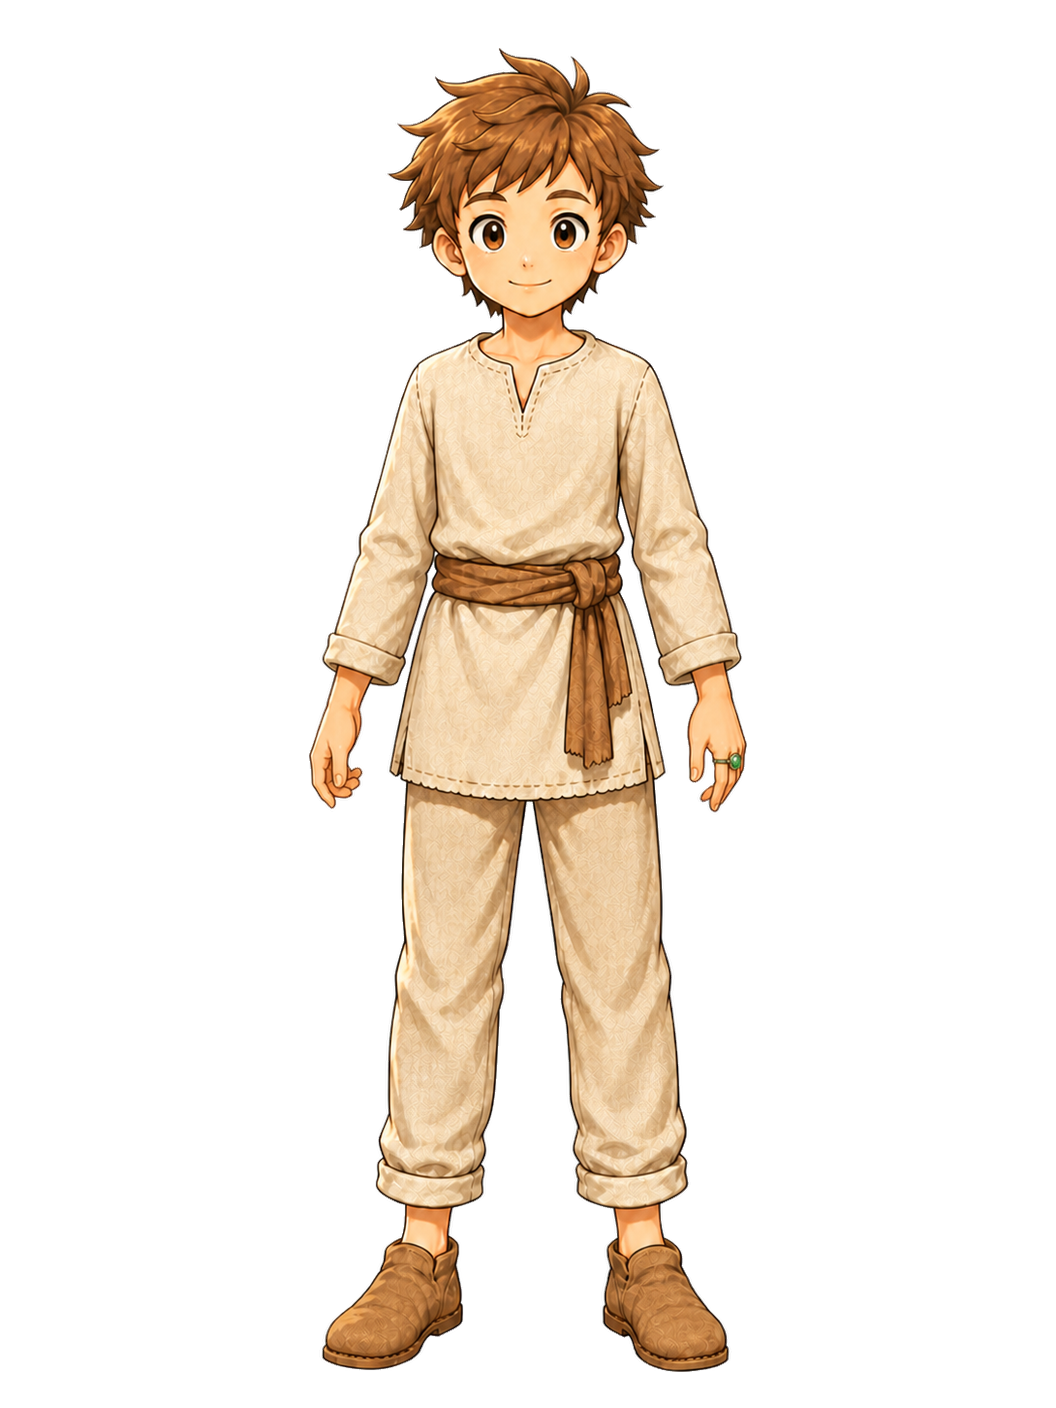
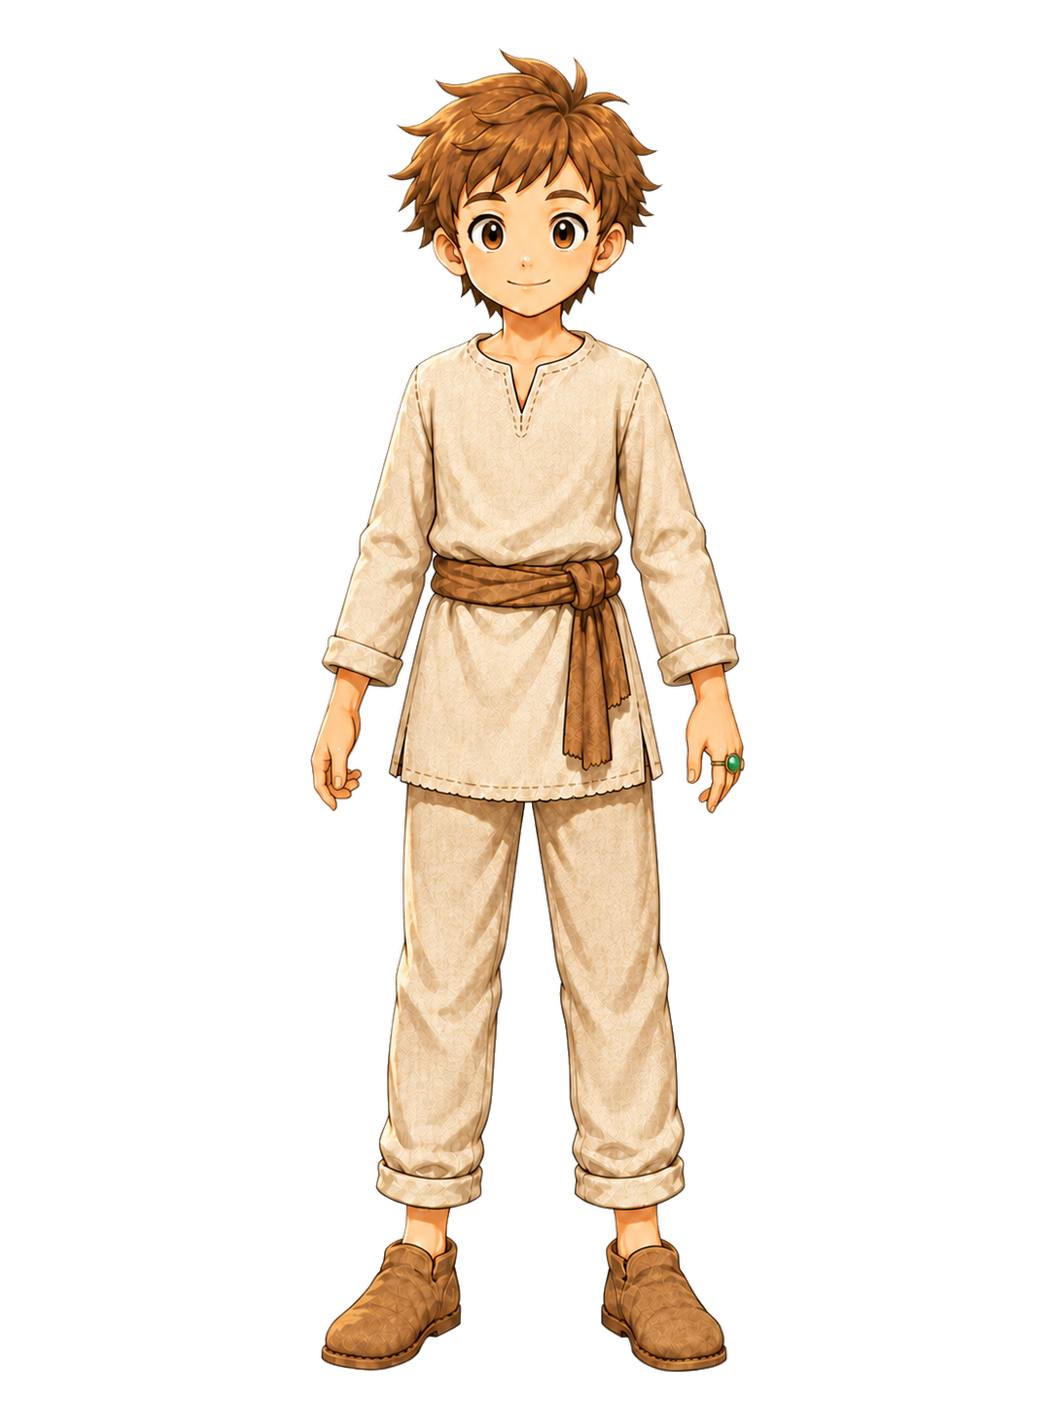
art(rpg): improve jade ring readability

diff --git a/tools/build_acc_jade_ring_visual_readability_fix.py b/tools/build_acc_jade_ring_visual_readability_fix.py
@@ -1,0 +1,191 @@
+"""Build the single authorized acc_jade_ring visual readability revision."""
+
+from __future__ import annotations
+
+from collections import deque
+from hashlib import sha256
+import json
+from pathlib import Path
+
+import numpy as np
+from PIL import Image, ImageDraw, ImageFont
+
+
+ROOT = Path(__file__).resolve().parents[1]
+PACK = ROOT / "docs" / "planning" / "rpg_wave2_master_lane_a_pure_cosmetic_full_body_art_closure_003"
+REVISION = PACK / "revisions" / "acc_jade_ring_visual_readability_fix_004"
+RAW = REVISION / "sources" / "acc_jade_ring_generated.png"
+BEFORE = REVISION / "acc_jade_ring_before.png"
+MASTER = PACK / "masters" / "acc_jade_ring.png"
+WEBP = PACK / "masters" / "acc_jade_ring.webp"
+MANIFEST = PACK / "rpg_wave2_master_lane_a_pure_cosmetic_full_body_art_closure_003_manifest.json"
+
+
+def digest(path: Path) -> str:
+    h = sha256()
+    with path.open("rb") as handle:
+        for chunk in iter(lambda: handle.read(1024 * 1024), b""):
+            h.update(chunk)
+    return h.hexdigest()
+
+
+def fnt(size: int, bold: bool = False):
+    path = Path(r"C:\Windows\Fonts\segoeuib.ttf" if bold else r"C:\Windows\Fonts\segoeui.ttf")
+    return ImageFont.truetype(str(path), size) if path.exists() else ImageFont.load_default()
+
+
+def edge_background_mask(arr: np.ndarray) -> np.ndarray:
+    rgb = arr[:, :, :3].astype(np.int16)
+    alpha = arr[:, :, 3]
+    hi = rgb.max(axis=2)
+    lo = rgb.min(axis=2)
+    neutral = (hi - lo <= 24) & (lo >= 205)
+    green_key = (rgb[:, :, 1] > 90) & (rgb[:, :, 1] > rgb[:, :, 0] * 1.18) & (rgb[:, :, 1] > rgb[:, :, 2] * 1.18)
+    dark = hi <= 28
+    candidates = (alpha > 0) & (neutral | green_key | dark)
+    h, w = candidates.shape
+    removed = np.zeros((h, w), dtype=bool)
+    queue: deque[tuple[int, int]] = deque()
+    for x in range(w):
+        if candidates[0, x]:
+            queue.append((0, x))
+        if candidates[h - 1, x]:
+            queue.append((h - 1, x))
+    for y in range(h):
+        if candidates[y, 0]:
+            queue.append((y, 0))
+        if candidates[y, w - 1]:
+            queue.append((y, w - 1))
+    while queue:
+        y, x = queue.pop()
+        if removed[y, x] or not candidates[y, x]:
+            continue
+        removed[y, x] = True
+        if y:
+            queue.append((y - 1, x))
+        if y + 1 < h:
+            queue.append((y + 1, x))
+        if x:
+            queue.append((y, x - 1))
+        if x + 1 < w:
+            queue.append((y, x + 1))
+    return removed
+
+
+def normalize_candidate() -> Image.Image:
+    source = Image.open(RAW).convert("RGBA")
+    arr = np.array(source, dtype=np.uint8)
+    removed = edge_background_mask(arr)
+    arr[removed, 3] = 0
+    arr[arr[:, :, 3] < 8, :3] = 0
+    alpha = arr[:, :, 3]
+    ys, xs = np.where(alpha > 8)
+    if len(xs) == 0:
+        raise ValueError("Revision source has no foreground alpha")
+    bbox = (int(xs.min()), int(ys.min()), int(xs.max()) + 1, int(ys.max()) + 1)
+    cropped = Image.fromarray(arr, "RGBA").crop(bbox)
+    scale = min(1324 / cropped.height, 800 / cropped.width)
+    size = (max(1, round(cropped.width * scale)), max(1, round(cropped.height * scale)))
+    resized = cropped.resize(size, Image.Resampling.LANCZOS)
+    canvas = Image.new("RGBA", (1056, 1408), (0, 0, 0, 0))
+    canvas.alpha_composite(resized, ((1056 - resized.width) // 2, 1372 - resized.height))
+    final = np.array(canvas, dtype=np.uint8)
+    final[final[:, :, 3] < 8, :3] = 0
+    return Image.fromarray(final, "RGBA")
+
+
+def checkerboard(size: tuple[int, int], cell: int = 14) -> Image.Image:
+    image = Image.new("RGB", size, (244, 247, 250))
+    draw = ImageDraw.Draw(image)
+    for y in range(0, size[1], cell):
+        for x in range(0, size[0], cell):
+            if ((x // cell) + (y // cell)) % 2:
+                draw.rectangle((x, y, x + cell, y + cell), fill=(229, 235, 240))
+    return image
+
+
+def paste_character(canvas: Image.Image, character: Image.Image, area: tuple[int, int, int, int]) -> None:
+    x0, y0, x1, y1 = area
+    layer = checkerboard((x1 - x0, y1 - y0)).convert("RGBA")
+    preview = character.copy()
+    preview.thumbnail((layer.width - 20, layer.height - 10), Image.Resampling.LANCZOS)
+    layer.alpha_composite(preview, ((layer.width - preview.width) // 2, layer.height - preview.height))
+    canvas.paste(layer.convert("RGB"), (x0, y0))
+
+
+def make_review_artifacts(before: Image.Image, after: Image.Image) -> None:
+    desktop = Image.new("RGB", (1056, 1505), (8, 23, 38))
+    draw = ImageDraw.Draw(desktop)
+    draw.text((28, 20), "ACC_JADE_RING · DESKTOP AFTER", font=fnt(36, True), fill=(245, 250, 252))
+    draw.text((28, 64), "Single authorized readability revision · pure presentation only", font=fnt(18), fill=(165, 196, 210))
+    paste_character(desktop, after, (0, 97, 1056, 1505))
+    desktop.save(REVISION / "ACC_JADE_RING_DESKTOP_AFTER.png", format="PNG", optimize=False)
+
+    mobile = Image.new("RGB", (720, 540), (8, 23, 38))
+    draw = ImageDraw.Draw(mobile)
+    draw.text((24, 18), "ACC_JADE_RING · MOBILE AFTER", font=fnt(30, True), fill=(245, 250, 252))
+    draw.text((24, 56), "Normal Hero-card scale + ring detail", font=fnt(17), fill=(165, 196, 210))
+    paste_character(mobile, after, (24, 86, 320, 520))
+    ring_crop = after.crop((675, 690, 790, 835)).resize((340, 430), Image.Resampling.NEAREST)
+    ring_panel = checkerboard((340, 430), cell=18).convert("RGBA")
+    ring_panel.alpha_composite(ring_crop, (0, 0))
+    mobile.paste(ring_panel.convert("RGB"), (355, 86))
+    draw = ImageDraw.Draw(mobile)
+    draw.text((382, 496), "ring detail", font=fnt(17, True), fill=(220, 238, 240))
+    mobile.save(REVISION / "ACC_JADE_RING_MOBILE_AFTER.png", format="PNG", optimize=False)
+
+    comparison = Image.new("RGB", (1120, 760), (8, 23, 38))
+    draw = ImageDraw.Draw(comparison)
+    draw.text((30, 20), "ACC_JADE_RING · BEFORE / AFTER", font=fnt(36, True), fill=(245, 250, 252))
+    draw.text((30, 64), "Identity, body frame and clothing preserved; ring setting made perceptible", font=fnt(18), fill=(165, 196, 210))
+    paste_character(comparison, before, (20, 100, 550, 745))
+    paste_character(comparison, after, (570, 100, 1100, 745))
+    draw = ImageDraw.Draw(comparison)
+    draw.text((210, 112), "BEFORE", font=fnt(26, True), fill=(245, 250, 252))
+    draw.text((760, 112), "AFTER", font=fnt(26, True), fill=(245, 250, 252))
+    comparison.save(REVISION / "ACC_JADE_RING_BEFORE_AFTER.png", format="PNG", optimize=False)
+
+
+def update_manifest(after: Image.Image) -> None:
+    data = json.loads(MANIFEST.read_text(encoding="utf-8"))
+    row = next(item for item in data["new_candidates"] if item["cosmetic_id"] == "acc_jade_ring")
+    row["raw_source"] = str(RAW.relative_to(ROOT)).replace("\\", "/")
+    row["source_sha256"] = digest(RAW)
+    row["master_sha256"] = digest(MASTER)
+    row["webp_sha256"] = digest(WEBP)
+    row["source_dimensions"] = list(Image.open(RAW).size)
+    row["master_dimensions"] = [1056, 1408]
+    row["master_mode"] = "RGBA"
+    row["readability_revision"] = {
+        "task": "GO_ODYSSEY_MASTER_LANE_A_ACC_JADE_RING_VISUAL_READABILITY_FIX_004",
+        "desktop_readability": "PASS_CANDIDATE",
+        "mobile_readability": "PASS_CANDIDATE",
+        "design_change": "slightly larger polished jade signet setting, stronger jade-green contrast, clearer finger ring signature",
+        "other_cosmetic_ids_changed": 0,
+        "functional_effect_count": 0,
+    }
+    data["review_artifacts"]["acc_jade_ring_revision"] = {
+        "desktop_after": str((REVISION / "ACC_JADE_RING_DESKTOP_AFTER.png").relative_to(ROOT)).replace("\\", "/"),
+        "mobile_after": str((REVISION / "ACC_JADE_RING_MOBILE_AFTER.png").relative_to(ROOT)).replace("\\", "/"),
+        "before_after": str((REVISION / "ACC_JADE_RING_BEFORE_AFTER.png").relative_to(ROOT)).replace("\\", "/"),
+        "owner_status": "REVIEW_REQUIRED",
+    }
+    data["counts"]["mobile_readability_failure"] = 0
+    MANIFEST.write_text(json.dumps(data, ensure_ascii=False, indent=2) + "\n", encoding="utf-8")
+
+
+def main() -> None:
+    REVISION.mkdir(parents=True, exist_ok=True)
+    if not RAW.exists() or not BEFORE.exists():
+        raise FileNotFoundError("Revision source or before snapshot missing")
+    before = Image.open(BEFORE).convert("RGBA")
+    after = normalize_candidate()
+    after.save(MASTER, format="PNG", optimize=False)
+    after.save(WEBP, format="WEBP", lossless=True, method=6)
+    make_review_artifacts(before, after)
+    update_manifest(after)
+    print(json.dumps({"master": str(MASTER), "webp": str(WEBP), "review_artifacts": 3}, ensure_ascii=False))
+
+
+if __name__ == "__main__":
+    main()

diff --git a/tests/test_acc_jade_ring_visual_readability_fix.py b/tests/test_acc_jade_ring_visual_readability_fix.py
@@ -1,0 +1,106 @@
+"""Focused regression tests for the one-asset acc_jade_ring revision."""
+
+from __future__ import annotations
+
+import json
+from pathlib import Path
+import subprocess
+import unittest
+
+import numpy as np
+from PIL import Image
+
+
+ROOT = Path(__file__).resolve().parents[1]
+BASE = "d79f0c869507796b502b4bb6e491df49d94ef467"
+PACK = ROOT / "docs" / "planning" / "rpg_wave2_master_lane_a_pure_cosmetic_full_body_art_closure_003"
+REVISION = PACK / "revisions" / "acc_jade_ring_visual_readability_fix_004"
+MANIFEST = PACK / "rpg_wave2_master_lane_a_pure_cosmetic_full_body_art_closure_003_manifest.json"
+MASTER = PACK / "masters" / "acc_jade_ring.png"
+WEBP = PACK / "masters" / "acc_jade_ring.webp"
+BEFORE = REVISION / "acc_jade_ring_before.png"
+
+OTHER_20 = [
+    "robe_plain", "robe_student", "robe_bamboo", "robe_crane", "robe_fox", "robe_snow", "robe_dragon",
+    "back_pack", "back_flag", "back_lantern", "back_wings", "back_scroll", "back_foxtail", "back_cloak", "back_dragon_wings",
+    "acc_bracelet", "acc_fan", "acc_goboard_bag", "acc_goban_seal", "acc_dragon_pendant",
+]
+EXISTING_23 = [
+    "hat_cloth", "hat_bamboo", "hat_student", "hat_feather", "hat_scholar", "hat_foxmask", "hat_onihorns",
+    "hat_dragon_horn", "hat_celestial_crown", "hat_premium", "title_beginner", "title_scholar", "title_wanderer",
+    "title_streak", "title_foxwit", "title_master", "title_dragonslayer", "title_godshand", "title_celestial",
+    "title_eternity", "title_newbie_voyage", "title_claire_recruit", "title_premium",
+]
+
+
+def base_bytes(relative: str) -> bytes:
+    return subprocess.run(["git", "show", f"{BASE}:{relative}"], cwd=ROOT, check=True, capture_output=True).stdout
+
+
+class AccJadeRingRevisionTests(unittest.TestCase):
+    def test_authorized_identity_and_readability_revision(self) -> None:
+        data = json.loads(MANIFEST.read_text(encoding="utf-8"))
+        row = next(item for item in data["new_candidates"] if item["cosmetic_id"] == "acc_jade_ring")
+        self.assertEqual(row["readability_revision"]["task"], "GO_ODYSSEY_MASTER_LANE_A_ACC_JADE_RING_VISUAL_READABILITY_FIX_004")
+        self.assertEqual(row["readability_revision"]["functional_effect_count"], 0)
+        self.assertEqual(row["readability_revision"]["other_cosmetic_ids_changed"], 0)
+        self.assertEqual(row["combat_authority"], "NO")
+        self.assertEqual(row["progression_authority"], "NO")
+        self.assertEqual(row["ownership_authority"], "NO")
+
+        before = np.array(Image.open(BEFORE).convert("RGBA"))
+        after = np.array(Image.open(MASTER).convert("RGBA"))
+        self.assertEqual(before.shape, after.shape)
+        self.assertGreater(np.count_nonzero(np.any(before != after, axis=2)), 0)
+        region_before = before[650:850, 650:820]
+        region_after = after[650:850, 650:820]
+        green_before = (region_before[:, :, 3] > 20) & (region_before[:, :, 1] > 70) & (region_before[:, :, 1] > region_before[:, :, 0] * 1.05) & (region_before[:, :, 1] > region_before[:, :, 2] * 1.02)
+        green_after = (region_after[:, :, 3] > 20) & (region_after[:, :, 1] > 70) & (region_after[:, :, 1] > region_after[:, :, 0] * 1.05) & (region_after[:, :, 1] > region_after[:, :, 2] * 1.02)
+        self.assertGreater(int(green_after.sum()), int(green_before.sum()), "jade setting did not become more perceptible")
+
+    def test_master_dimensions_alpha_and_mobile_review_artifacts(self) -> None:
+        with Image.open(MASTER) as image:
+            self.assertEqual(image.size, (1056, 1408))
+            self.assertEqual(image.mode, "RGBA")
+            alpha = image.getchannel("A")
+            self.assertIsNotNone(alpha.getbbox())
+            self.assertEqual(alpha.getpixel((0, 0)), 0)
+            self.assertEqual(alpha.getpixel((1055, 1407)), 0)
+            pixels = np.array(image, dtype=np.uint8)
+            transparent = pixels[:, :, 3] == 0
+            self.assertTrue(np.all(pixels[:, :, :3][transparent] == 0))
+        with Image.open(WEBP) as image:
+            self.assertEqual(image.size, (1056, 1408))
+            self.assertEqual(image.mode, "RGBA")
+        for name in ("ACC_JADE_RING_DESKTOP_AFTER.png", "ACC_JADE_RING_MOBILE_AFTER.png", "ACC_JADE_RING_BEFORE_AFTER.png"):
+            with Image.open(REVISION / name) as image:
+                self.assertEqual(image.mode, "RGB", name)
+                self.assertGreater(image.width, 300, name)
+                self.assertGreater(image.height, 300, name)
+
+    def test_other_cosmetics_and_existing_catalog_are_byte_identical(self) -> None:
+        for cosmetic_id in OTHER_20:
+            for extension in ("png", "webp"):
+                relative = f"docs/planning/rpg_wave2_master_lane_a_pure_cosmetic_full_body_art_closure_003/masters/{cosmetic_id}.{extension}"
+                self.assertEqual((ROOT / relative).read_bytes(), base_bytes(relative), relative)
+        for cosmetic_id in EXISTING_23:
+            relative = f"assets/hero/items/{cosmetic_id}.svg"
+            self.assertEqual((ROOT / relative).read_bytes(), base_bytes(relative), relative)
+
+    def test_changed_paths_are_micro_revision_scoped(self) -> None:
+        allowed = (
+            "docs/planning/rpg_wave2_master_lane_a_pure_cosmetic_full_body_art_closure_003/masters/acc_jade_ring.png",
+            "docs/planning/rpg_wave2_master_lane_a_pure_cosmetic_full_body_art_closure_003/masters/acc_jade_ring.webp",
+            "docs/planning/rpg_wave2_master_lane_a_pure_cosmetic_full_body_art_closure_003/rpg_wave2_master_lane_a_pure_cosmetic_full_body_art_closure_003_manifest.json",
+            "docs/planning/rpg_wave2_master_lane_a_pure_cosmetic_full_body_art_closure_003/revisions/acc_jade_ring_visual_readability_fix_004/",
+            "tests/test_acc_jade_ring_visual_readability_fix.py",
+            "tools/build_acc_jade_ring_visual_readability_fix.py",
+        )
+        changed = subprocess.run(["git", "diff", "--name-only", BASE, "HEAD"], cwd=ROOT, check=True, capture_output=True, text=True).stdout.splitlines()
+        unexpected = [path for path in changed if not any(path == prefix or path.startswith(prefix) for prefix in allowed)]
+        self.assertEqual(unexpected, [])
+        self.assertFalse(any("assets/hero/characters/" in path for path in changed))
+
+
+if __name__ == "__main__":
+    unittest.main()

diff --git a/docs/planning/rpg_wave2_master_lane_a_pure_cosmetic_full_body_art_closure_003/revisions/acc_jade_ring_visual_readability_fix_004/QA.md b/docs/planning/rpg_wave2_master_lane_a_pure_cosmetic_full_body_art_closure_003/revisions/acc_jade_ring_visual_readability_fix_004/QA.md
@@ -1,0 +1,29 @@
+# `acc_jade_ring` visual readability micro-revision
+
+Task: `GO_ODYSSEY_MASTER_LANE_A_ACC_JADE_RING_VISUAL_READABILITY_FIX_004`
+
+Only `acc_jade_ring` is revised. The jade setting is slightly larger, uses a
+stronger natural jade-green contrast, and has a clearer signet silhouette. It
+remains a single finger ring and a pure presentation cosmetic.
+
+## Results
+
+- `AUTHORIZED_ASSET_COUNT=1`
+- `ACC_JADE_RING_DESKTOP_READABILITY=PASS_CANDIDATE`
+- `ACC_JADE_RING_MOBILE_READABILITY=PASS_CANDIDATE`
+- `ASSET_READABLE=PASS`
+- `EXPECTED_DIMENSIONS=1056x1408 RGBA`
+- `ALPHA_INTEGRITY=PASS`
+- `OTHER20_NEW_COSMETICS_CHANGED=NO`
+- `EXISTING23_COSMETICS_CHANGED=NO`
+- `CHARACTER_BASE_CHANGED=NO`
+- `FUNCTIONAL_EFFECT_INTRODUCED=NO`
+- `UNRELATED_ASSET_CHANGE_COUNT=0`
+
+Owner visual approval remains required; `PASS_CANDIDATE` is not Owner PASS.
+
+`FUNCTIONAL_EQUIPMENT_AUTHORITY=player_inventory + server EQUIPMENT_DEFS`
+
+`CHARACTER_COMBAT_AUTHORITY=NO`
+
+`CLIENT_COMBAT_AUTHORITY=NO`
